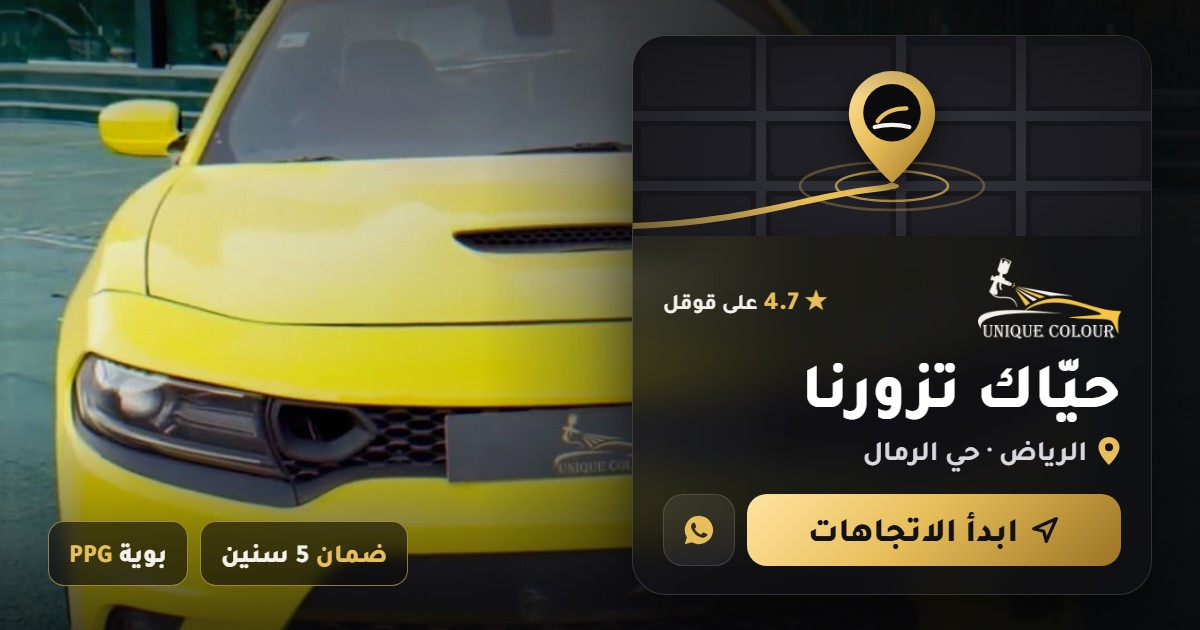
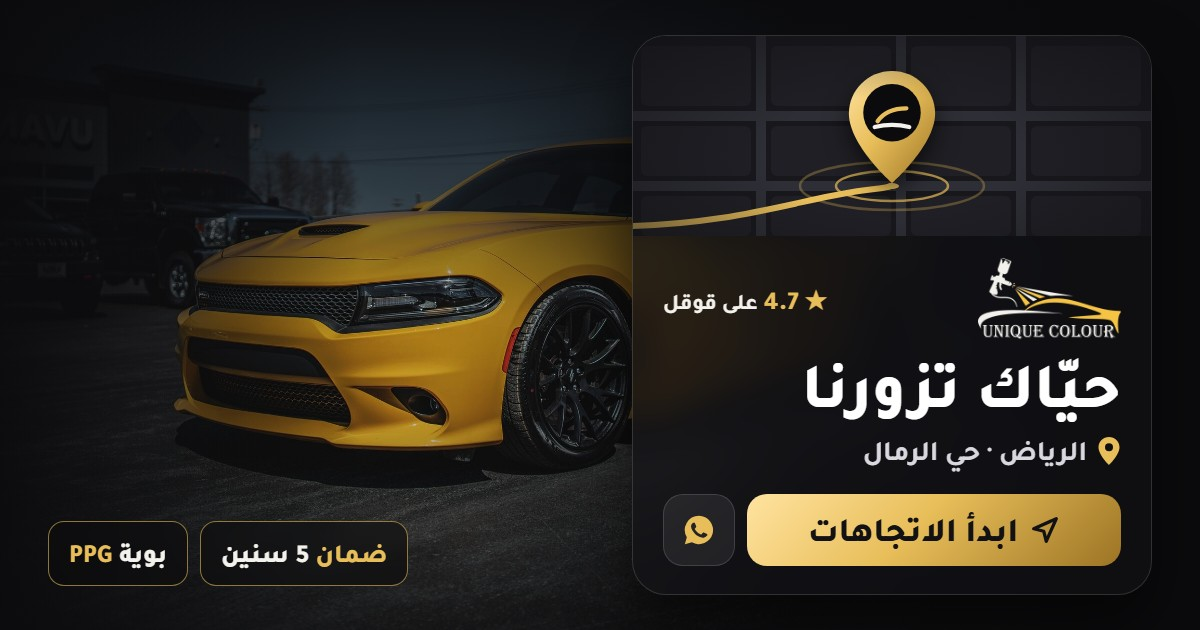
Use sharp HD Charger photo (Pexels, free license) on map page and preview

diff --git a/map/index.html b/map/index.html
@@ -12,14 +12,14 @@
 <meta property="og:title" content="📍 موقع مركز يونيك كلر: الرياض، حي الرمال">
 <meta property="og:description" content="حيّاك تزورنا. سمكرة وصبغ ببوية PPG الأمريكية، وضمان 5 سنين. اضغط وابدأ الاتجاهات.">
 <meta property="og:url" content="https://uniquecolour-sa.github.io/map/">
-<meta property="og:image" content="https://uniquecolour-sa.github.io/assets/og-map.jpg?v=9">
-<meta property="og:image:secure_url" content="https://uniquecolour-sa.github.io/assets/og-map.jpg?v=9">
+<meta property="og:image" content="https://uniquecolour-sa.github.io/assets/og-map.jpg?v=10">
+<meta property="og:image:secure_url" content="https://uniquecolour-sa.github.io/assets/og-map.jpg?v=10">
 <meta property="og:image:type" content="image/jpeg">
 <meta property="og:image:width" content="1200">
 <meta property="og:image:height" content="630">
 <meta property="og:image:alt" content="موقع مركز يونيك كلر على الخريطة">
 <meta name="twitter:card" content="summary_large_image">
-<meta name="twitter:image" content="https://uniquecolour-sa.github.io/assets/og-map.jpg?v=9">
+<meta name="twitter:image" content="https://uniquecolour-sa.github.io/assets/og-map.jpg?v=10">
 <link rel="canonical" href="https://uniquecolour-sa.github.io/map/">
 <link rel="stylesheet" href="/fonts/tajawal.css">
 <style>
@@ -38,7 +38,7 @@
 
   /* hero */
   .hero { position: relative; height: 62svh; min-height: 420px; max-height: 600px; overflow: hidden; }
-  .hero .car { position: absolute; inset: -6%; background: url(/assets/charger-front.jpg) 50% 30% / cover no-repeat;
+  .hero .car { position: absolute; inset: -6%; background: url(/assets/charger-hd.jpg) 74% 55% / cover no-repeat;
     animation: kb 18s ease-in-out infinite alternate; }
   @keyframes kb { from { transform: scale(1.04) translateY(0); } to { transform: scale(1.14) translateY(-2%); } }
   .hero::after { content: ""; position: absolute; inset: 0;
@@ -122,7 +122,7 @@
 <body>
 <div class="app">
   <header class="hero">
-    <div class="car" role="img" aria-label="سيارة دودج تشارجر صفراء من أعمال يونيك كلر"></div>
+    <div class="car" role="img" aria-label="سيارة دودج تشارجر صفراء"></div>
     <div class="top rise">
       <img src="/assets/logo-light.png" alt="يونيك كلر">
       <span class="badge"><b>★ 4.7</b> على قوقل</span>
